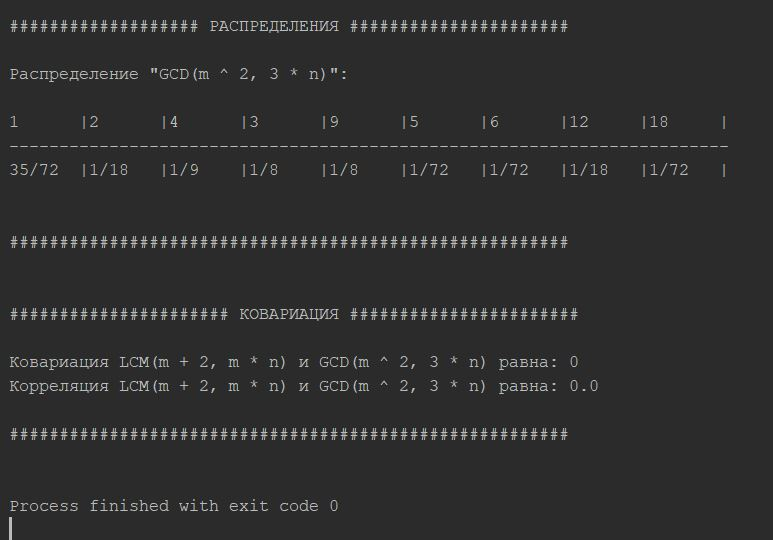
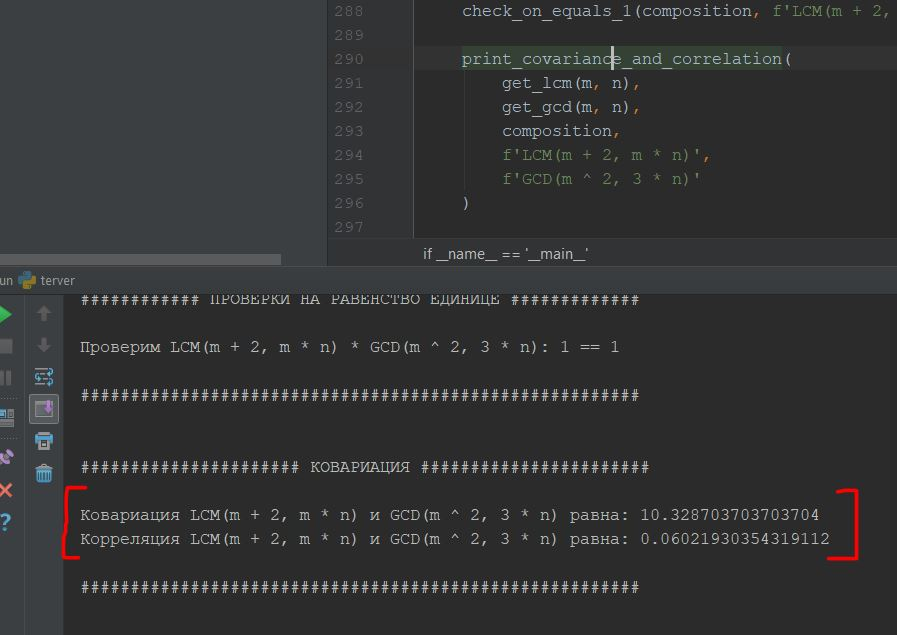
fixed problems
fixed problems with calculating covariance and correlation

diff --git a/terver.py b/terver.py
@@ -5,11 +5,11 @@ import pylab
 from math import sqrt
 
 
-def calculate_data(a, b, function, e=0):
+def calculate_data(a, b, function):
     dict = {}
     for k1, v1 in a.items():
         for k2, v2 in b.items():
-            key = function(k1, k2, e)
+            key = function(k1, k2)
             if key in dict:
                 dict[key] += v1 * v2
             else:
@@ -17,28 +17,36 @@ def calculate_data(a, b, function, e=0):
     return dict
 
 
-def calculate_lcm(a, b, e):
-    return lcm(a + e, a * b)
+def calculate_lcm(a, b):
+    return lcm(a + 2, a * b)
 
 
-def calculate_gcd(a, b, e):
-    return gcd(a * a, e * b)
+def calculate_gcd(a, b):
+    return gcd(a * a, 3 * b)
 
 
-def get_sum(a, b, e):
-    return calculate_data(a, b, lambda n1, n2: n1 + n2)
+def calculate_lcm_multiply_gcd(a, b):
+    return calculate_lcm(a, b) * calculate_gcd(a, b)
 
 
-def get_multiply(a, b, e):
-    return calculate_data(a, b, lambda n1, n2, e: n1 * n2)
+def get_sum(m, n):
+    return calculate_data(m, n, lambda n1, n2: n1 + n2)
 
 
-def get_gcd(a, b, e):
-    return calculate_data(a, b, calculate_gcd, e)
+def get_composition(m, n):
+    return calculate_data(m, n, lambda n1, n2: n1 * n2)
 
 
-def get_lcm(a, b, e):
-    return calculate_data(a, b, calculate_lcm, e)
+def get_gcd(m, n):
+    return calculate_data(m, n, calculate_gcd)
+
+
+def get_lcm(m, n):
+    return calculate_data(m, n, calculate_lcm)
+
+
+def get_lcm_multiply_gcd(m, n):
+    return calculate_data(m, n, calculate_lcm_multiply_gcd)
 
 
 def gcd(a, b):
@@ -79,12 +87,12 @@ def get_standart_deviation(distribution):
     return sqrt(get_dispersion(distribution))
 
 
-def get_covariance(distribution1, distribution2):
-    return get_expv(get_multiply(distribution1, distribution2, 0)) - get_expv(distribution1) * get_expv(distribution2)
+def get_covariance(distribution1, distribution2, composition):
+    return get_expv(composition) - get_expv(distribution1) * get_expv(distribution2)
 
 
-def get_correlation(distribution1, distribution2):
-    return get_covariance(distribution1, distribution2) / \
+def get_correlation(distribution1, distribution2, composition):
+    return get_covariance(distribution1, distribution2, composition) / \
            (get_standart_deviation(distribution1) * get_standart_deviation(distribution2))
 
 
@@ -177,26 +185,26 @@ def print_information(distribution, draw_graphic):
         create_graphic(distribution)
 
 
-def print_covariance_and_correlation(distribution_1, distribution_2, formula_1, formula_2):
+def print_covariance_and_correlation(distribution_1, distribution_2, composition, formula_1, formula_2):
     print('\n###################### КОВАРИАЦИЯ #######################\n')
 
-    covariance = get_covariance(distribution_1, distribution_2)
-    print(f'Ковариация {formula_1} и {formula_2} равна: {covariance}')
+    covariance = get_covariance(distribution_1, distribution_2, composition)
+    print(f'Ковариация {formula_1} и {formula_2} равна: {covariance.numerator / covariance.denominator}')
 
-    correlation = get_correlation(distribution_1, distribution_2)
+    correlation = get_correlation(distribution_1, distribution_2, composition)
     print(f'Корреляция {formula_1} и {formula_2} равна: {correlation}')
 
     print('\n########################################################\n')
 
 
-def func_for_my_task(m, n, e, print_results, draw_graphic):
-    """ lcm(m + e, m * n)"""
+def func_for_my_task(m, n, print_results, draw_graphic):
+    """ lcm(m + 2, m * n)"""
 
     print('\n################### РАСПРЕДЕЛЕНИЯ ######################\n')
 
-    result_lcm = get_lcm(m, n, list(e.keys())[0])
+    result_lcm = get_lcm(m, n)
     distribution = convert_fractions(result_lcm)
-    print(f'Распределение \"LCM(m + {[i for i in e.keys()][0]}, m * n)\":')
+    print(f'Распределение \"LCM(m + 2, m * n)\":')
     print_distribution(result_lcm)
 
     print('\n########################################################\n')
@@ -208,14 +216,14 @@ def func_for_my_task(m, n, e, print_results, draw_graphic):
     return distribution
 
 
-def func_for_other_task(m, n, e, print_results, draw_graphic):
-    """ gcd(m ^ 2, e * n)"""
+def func_for_other_task(m, n, print_results, draw_graphic):
+    """ gcd(m ^ 2, 3 * n)"""
 
     print('\n################### РАСПРЕДЕЛЕНИЯ ######################\n')
 
-    result_gcd = get_gcd(m, n, list(e.keys())[0])
+    result_gcd = get_gcd(m, n)
     distribution = convert_fractions(result_gcd)
-    print(f'Распределение \"GCD(m ^ 2, {[i for i in e.keys()][0]} * n)\":')
+    print(f'Распределение \"GCD(m ^ 2, 3 * n)\":')
     print_distribution(result_gcd)
 
     print('\n########################################################\n')
@@ -228,8 +236,8 @@ def func_for_other_task(m, n, e, print_results, draw_graphic):
 
 
 helper = """
-Код вычисляет характеристики СВ с точностью до 5 знака после запятой СВ указанных формул: 
-        О=lcm(m + e, m * n), О=gcd(m ^ 2, e * n), где m и n - СВ, e - константа.
+Код вычисляет характеристики СВ с точностью до 5 знака после запятой указанных формул: 
+        О=lcm(m + 2, m * n), О=gcd(m ^ 2, 3 * n), где m и n - СВ.
 
 Правила ввода: все значения вводятся через пробел. Сколько значений СВ, столько и вероятностей этих СВ.
 
@@ -238,8 +246,6 @@ helper = """
 1/6 1/6 1/6 1/6 1/6 1/6         # распределение m
 1 2 3 4 5 6                     # значения n
 1/12 1/12 1/3 1/3 1/12 1/12     # распределение n
-2                               # значение константы e_1
-3                               # значение константы e_2
 
 ######################## Пояснения к коду! ###########################
 
@@ -268,34 +274,32 @@ if __name__ == '__main__':
     m_p = str2fraction(input('Введите начальное распределение m через пробел: '))
     n = list(map(int, input('Введите значения СВ n через пробел: ').split()))
     n_p = str2fraction(input('Введите начальное распределение n через пробел: '))
-    e_1 = list(map(int, input('Введите константу для ф-лы О=lcm(m + e, m * n), записав одно число: ').split()))  # конст
-    e_2 = list(map(int, input('Введите константу для ф-лы О=gcd(m ^ 2, e * n), записав одно число: ').split()))  # конст
-    e_p = [1]  # распределение константы
 
     m = convert_fractions({m[i]: Fraction(m_p[i]) for i in range(len(m))})
     n = convert_fractions({n[i]: Fraction(n_p[i]) for i in range(len(n))})
-    e_1 = convert_fractions({e_1[i]: Fraction(e_p[i]) for i in range(len(e_1))})
-    e_2 = convert_fractions({e_2[i]: Fraction(e_p[i]) for i in range(len(e_2))})
 
     print_start_data(m, n)
-    distribution_1 = func_for_my_task(m, n, e_1, print_results=True, draw_graphic=True)
-    distribution_2 = func_for_other_task(m, n, e_2, print_results=False, draw_graphic=False)
+    distribution_1 = func_for_my_task(m, n, print_results=False, draw_graphic=False)
+    distribution_2 = func_for_other_task(m, n, print_results=False, draw_graphic=False)
+
+    composition = get_lcm_multiply_gcd(m, n)
+    print(f'Распределение LCM(m + 2, m * n) * GCD(m ^ 2, 3 * n):')
+    print_distribution(composition)
+    check_on_equals_1(composition, f'LCM(m + 2, m * n) * GCD(m ^ 2, 3 * n)')
 
     print_covariance_and_correlation(
-        distribution_1,
-        distribution_2,
-        f'LCM(m + {[i for i in e_1.keys()][0]}, m * n)',
-        f'GCD(m ^ 2, {[i for i in e_2.keys()][0]} * n)'
+        get_lcm(m, n),
+        get_gcd(m, n),
+        composition,
+        f'LCM(m + 2, m * n)',
+        f'GCD(m ^ 2, 3 * n)'
     )
 
-"""
+    """
     # Для дебага:
 
     m = [1, 2, 3, 4, 5, 6]
     n = [1, 2, 3, 4, 5, 6]
-    e_1 = [2]
-    e_2 = [3]
-    e_p = [1]
     m_p = [1/6, 1/6, 1/6, 1/6, 1/6, 1/6]
     n_p = [1/12, 1/12, 1/3, 1/3, 1/12, 1/12]
     """
